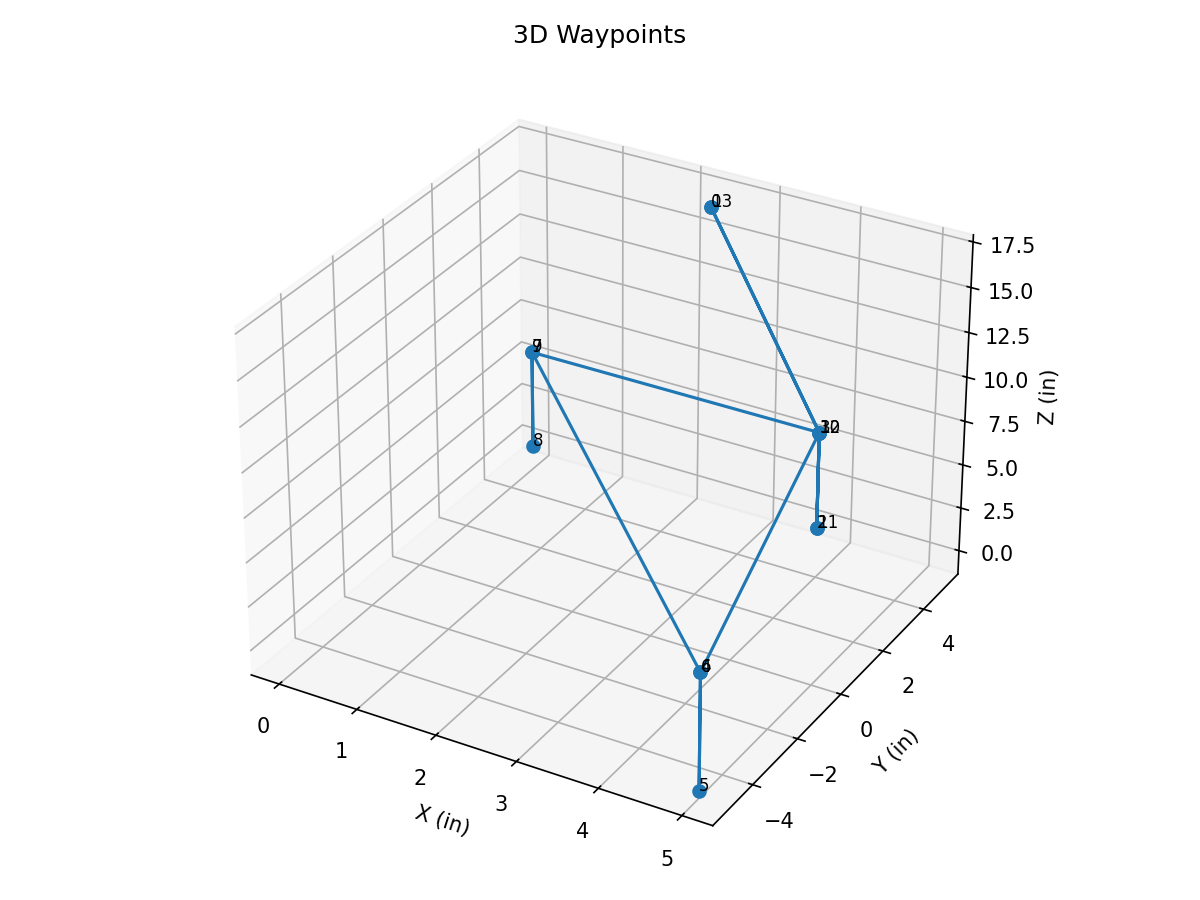
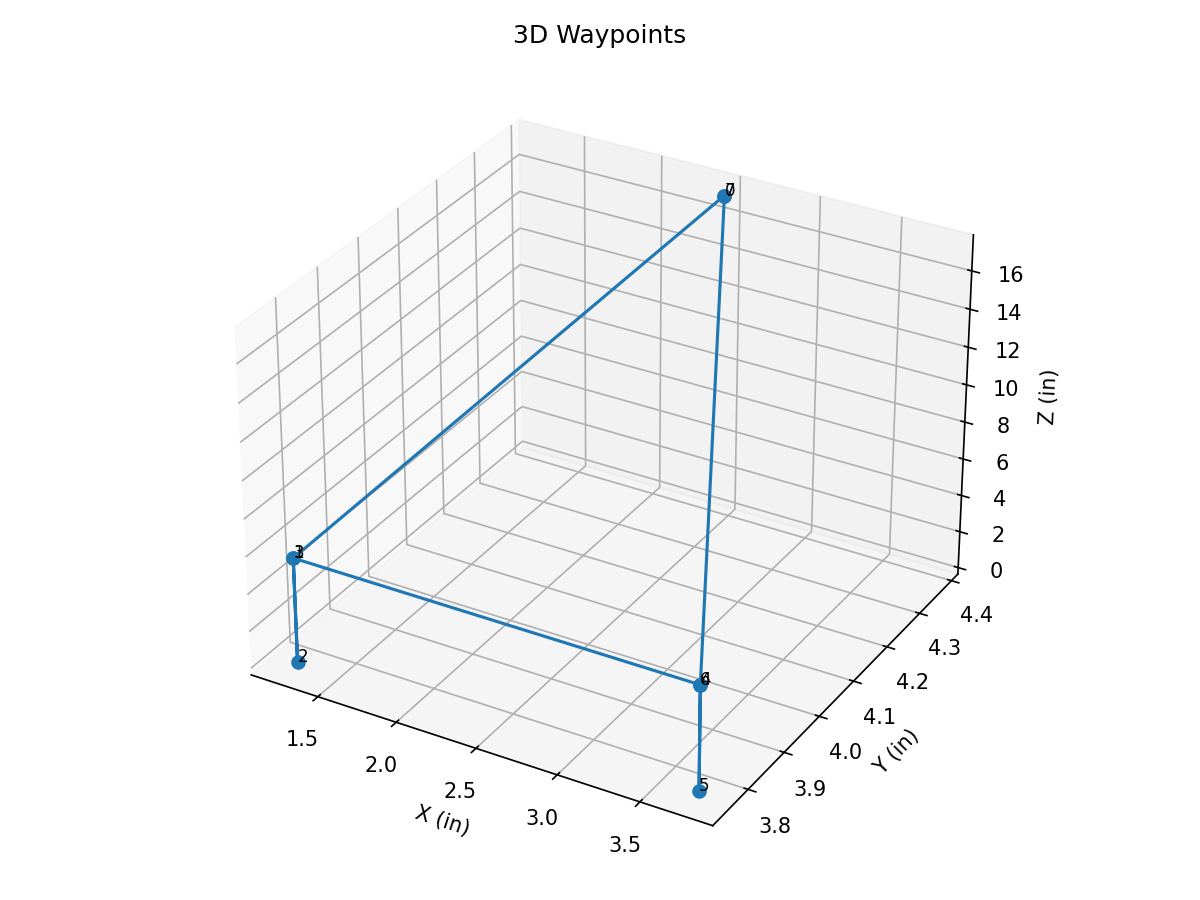
Add GPIO electromagnet control and update dependencies

diff --git a/chessrobotclasses/main.py b/chessrobotclasses/main.py
@@ -7,6 +7,7 @@ import asyncio
 import time
 import chess
 import numpy as np
+import gpiozero
 
 from ServoController import ServoController
 from ChessStateValidatorMoveParser import ChessBoard
@@ -68,6 +69,8 @@ def main():
     chess_board = ChessBoard()
     motion_planner = RobotMotionPlanner()
     servo_controller = ServoController()
+    #initialize low level hardware controllers
+    EMAG = Electromagnet(pin=17)
     #########################################################
     #event and queue definitions for inter-task communication
     #########################################################
@@ -77,6 +80,7 @@ def main():
     ready2move = asyncio.Event()  # Event to signal that the opponents move is complete 
     #meaning the robot can process the current move and execute the next move
     emag_on = asyncio.Event()  # Event to signal when to turn on the electromagnet for piece manipulation
+    emag_off = asyncio.Event()  # Event to signal when to turn off the electromagnet
     move_completed = asyncio.Event()  # Event to signal that the robot has completed its move 
     servo_mode = asyncio.Event()  # Event to signal when to switch the servo control mode
     valid_move = asyncio.Event()  # Event to signal that the detected move has been validated and parsed successfully
@@ -133,6 +137,7 @@ def main():
             'servo_mode': servo_mode,
             'use_cv': use_cv,
             'emag_on': emag_on,
+            'emag_off': emag_off,
             'valid_move': valid_move,
             'move_completed': move_completed,
         }
@@ -149,10 +154,15 @@ def main():
     async def lowlevel_sensorcontrol_task():
         while True:
             await emag_on.wait()  # Wait for the signal to turn on the electromagnet
-            print("electromagnet onfor piece manipulation.")
-            # Here you would add the actual code to control the electromagnet hardware
-            #monitor the robot's sensors for any issues or feedback during motion execution
-            await asyncio.sleep(0.1)  # Simulate sensor monitoring delay
+            print("Electromagnet ON for piece manipulation.")
+            EMAG.on()
+            emag_on.clear()  # Reset for next use
+            
+            await emag_off.wait()  # Wait for the signal to turn off the electromagnet
+            print("Electromagnet OFF after piece manipulation.")
+            EMAG.off()
+            emag_off.clear()  # Reset for next use
+
 
     ui_queues = {
         'detected_fen': detected_fen,

diff --git a/chessrobotclasses/EndGameEffectorTask.py b/chessrobotclasses/EndGameEffectorTask.py
@@ -18,6 +18,7 @@ class EndgameEffectorFSM:
         self.ready2move = events['ready2move']
         self.use_cv = events['use_cv']
         self.emag_on = events['emag_on']
+        self.emag_off = events['emag_off']
         self.valid_move = events['valid_move']
         self.move_completed = events['move_completed']
         #data storage for the queues
@@ -53,6 +54,7 @@ class EndgameEffectorFSM:
         self.valid_move.clear()
         self.servo_mode.clear()
         self.emag_on.clear()
+        self.emag_off.set()
         self.move_completed.set()  # Signal that the move has been completed
         # Reset waypoint tracking for next move
         self.cur_jwaypoint = None
@@ -227,7 +229,7 @@ class EndgameEffectorFSM:
         if self.motion_planner.emag_on[self.cur_waypoint_index] is True:
             self.emag_on.set()  # Turn on the electromagnet
         elif self.motion_planner.emag_on[self.cur_waypoint_index] is False:
-            self.emag_on.clear()  # Turn off the electromagnet
+            self.emag_off.set()  # Turn off the electromagnet
         #after setting the electromagnet state for the current waypoint, go to the state to execute
         print(f"Executing move from {self.cur_jwaypoint} to {self.next_jwaypoint} with trajectory time {self.cur_trajectory_time:.2f} seconds.")
         return self.EXECUTE_CURRENT_WAYPOINT

diff --git a/chessrobotclasses/Stockfish.py b/chessrobotclasses/Stockfish.py
@@ -42,11 +42,7 @@ class Stockfish:
         if env_path:
             candidates.append(env_path)
 
-        candidates.extend([
-            repo_root / "stockfishwindow" / "stockfish-windows-x86-64-avx2.exe",
-            repo_root / "stockfishlinux" / "stockfish-ubuntu-x86-64-avx2",
-        ])
-
+        # Prefer system-installed stockfish first
         in_path = shutil.which("stockfish")
         if in_path:
             candidates.append(in_path)
@@ -55,6 +51,12 @@ class Stockfish:
             "/usr/games/stockfish",
             "/usr/local/bin/stockfish",
             "/opt/homebrew/bin/stockfish",
+        ])
+
+        # Repo-local binaries as fallback
+        candidates.extend([
+            repo_root / "stockfishlinux" / "stockfish-ubuntu-x86-64-avx2",
+            repo_root / "stockfishwindow" / "stockfish-windows-x86-64-avx2.exe",
             "C:/Program Files/Stockfish/stockfish.exe",
             "C:/stockfish/stockfish.exe",
         ])

diff --git a/chessrobotclasses/Electromagnet.py b/chessrobotclasses/Electromagnet.py
@@ -1,0 +1,12 @@
+from gpiozero import OutputDevice
+from time import sleep
+
+class Electromagnet:
+    def __init__(self, pin):
+        self.device = OutputDevice(pin)
+    
+    def on(self):
+        self.device.on()
+    
+    def off(self):
+        self.device.off()
